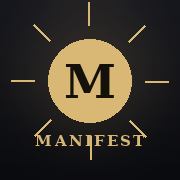
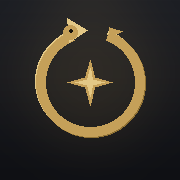
Direction artistique OCCULT + systeme de comptes partages
DA OCCULT (charte de marque):
- Palette anthracite profond + or/creme #C5A059 ; lignes et lueurs dorees.
- Typographies Cinzel (titres) + Poppins (corps) ; textes longs en Poppins 300.
- Nouvelle icone Ouroboros (dragon cyclique) or sur anthracite + etoile centrale,
  ecran de connexion avec le meme logo.

Comptes partages (multi-utilisateurs):
- js/firebase-config.js : config integree optionnelle. Vide = mode local ;
  remplie = comptes actives pour tous les visiteurs du lien.
- Ecran de connexion (auth gate) OCCULT en entree quand une config existe :
  onglets Connexion / Creer un compte, email + mot de passe. La nav est masquee
  tant qu'on n'est pas connecte. Chaque compte est isole (firestore.rules).
- sync.js privilegie window.FIREBASE_CONFIG ; l'admin reste le proprietaire du
  projet Firebase, les autres n'ont acces qu'a leur propre espace.
- Correctif : styles des champs email/password/number.

Claude-Session: https://claude.ai/code/session_01PbU2LRwqQhvQSMHqTjw8ov

Changed region(s): [[0.0556, 0.0, 0.9444, 0.8889]]

diff --git a/css/styles.css b/css/styles.css
@@ -4,38 +4,40 @@
    ===================================================================== */
 
 :root {
-  /* Palette */
-  --bg:            #0b0c10;
-  --bg-elev:       #121319;
-  --surface:       #16181f;
-  --surface-2:     #1c1f28;
-  --line:          rgba(255,255,255,.08);
-  --line-strong:   rgba(255,255,255,.14);
+  /* Palette OCCULT — anthracite profond + or/crème #C5A059 */
+  --bg:            #141518;   /* anthracite profond */
+  --bg-elev:       #1a1c21;
+  --surface:       #1f2128;
+  --surface-2:     #272a33;
+  --line:          rgba(197,160,89,.12);
+  --line-strong:   rgba(197,160,89,.24);
 
-  --text:          #f4f1ea;
-  --text-soft:     #b7b3aa;
-  --text-mut:      #7d7a72;
+  --text:          #f1ece1;   /* crème */
+  --text-soft:     #bdb6a6;
+  --text-mut:      #857f70;
 
-  /* Gold / champagne accent */
-  --gold:          #d9b876;
-  --gold-2:        #c6a15b;
-  --gold-deep:     #a07d3c;
-  --gold-glow:     rgba(217,184,118,.18);
+  /* Or OCCULT */
+  --gold:          #d8b877;   /* highlight */
+  --gold-2:        #c5a059;   /* couleur principale de marque */
+  --gold-deep:     #9a7b3c;
+  --gold-glow:     rgba(197,160,89,.20);
 
-  --good:          #7fb98a;
+  --good:          #8bb98a;
   --warn:          #d98f6b;
 
   --radius:        18px;
   --radius-sm:     12px;
   --radius-lg:     26px;
 
-  --shadow:        0 20px 60px -20px rgba(0,0,0,.7);
+  --shadow:        0 20px 60px -20px rgba(0,0,0,.72);
   --shadow-soft:   0 8px 30px -12px rgba(0,0,0,.55);
 
   --ease:          cubic-bezier(.16,.84,.44,1);
 
-  --serif: "Cormorant Garamond", "Playfair Display", Georgia, serif;
-  --sans:  "Inter", -apple-system, BlinkMacSystemFont, "Segoe UI", Roboto, sans-serif;
+  /* Cinzel (titres) + Poppins (corps) */
+  --title: "Cinzel", "Cormorant Garamond", Georgia, serif;
+  --serif: "Cinzel", "Cormorant Garamond", Georgia, serif;
+  --sans:  "Poppins", -apple-system, BlinkMacSystemFont, "Segoe UI", Roboto, sans-serif;
 
   --maxw: 720px;
 }
@@ -46,8 +48,8 @@ html { -webkit-text-size-adjust: 100%; }
 body {
   font-family: var(--sans);
   background:
-    radial-gradient(1200px 800px at 50% -20%, rgba(217,184,118,.10), transparent 60%),
-    radial-gradient(900px 700px at 100% 10%, rgba(160,125,60,.06), transparent 55%),
+    radial-gradient(1200px 800px at 50% -20%, rgba(197,160,89,.12), transparent 60%),
+    radial-gradient(900px 700px at 100% 10%, rgba(154,123,60,.07), transparent 55%),
     var(--bg);
   background-attachment: fixed;
   color: var(--text);
@@ -135,8 +137,8 @@ h1,h2,h3 { font-family: var(--serif); font-weight: 600; letter-spacing: .2px; li
 }
 .vision-hero .eyebrow { margin-bottom: 12px; }
 .vision-text {
-  font-family: var(--serif); font-size: clamp(22px, 6vw, 30px);
-  line-height: 1.24; color: var(--text); font-weight: 600;
+  font-family: var(--sans); font-size: clamp(20px, 5.4vw, 27px);
+  line-height: 1.32; color: var(--text); font-weight: 300; letter-spacing: .2px;
 }
 .vision-text.empty { color: var(--text-mut); font-style: italic; }
 .vision-edit {
@@ -186,6 +188,27 @@ h1,h2,h3 { font-family: var(--serif); font-weight: 600; letter-spacing: .2px; li
 .ring .fg { stroke: url(#goldgrad); stroke-linecap: round; transition: stroke-dashoffset .6s var(--ease); }
 .ring .pct { font-family: var(--serif); font-size: 22px; }
 
+/* ---------------------------------------------------------------- Auth gate */
+#gate {
+  position: fixed; inset: 0; z-index: 100; overflow-y: auto;
+  display: flex; align-items: center; justify-content: center;
+  padding: calc(env(safe-area-inset-top) + 24px) 20px calc(env(safe-area-inset-bottom) + 24px);
+  background:
+    radial-gradient(900px 600px at 50% -10%, rgba(197,160,89,.16), transparent 60%),
+    var(--bg);
+}
+.gate-card { width: 100%; max-width: 380px; text-align: center; }
+.gate-mark { display:grid; place-items:center; margin-bottom: 14px; filter: drop-shadow(0 6px 20px var(--gold-glow)); }
+.gate-title { font-family: var(--title); font-size: 30px; letter-spacing: 3px; color: var(--text); }
+.gate-sub { color: var(--text-mut); font-size: 13.5px; margin: 6px 0 24px; }
+.gate-tabs { display:flex; gap:6px; background: var(--surface); border:1px solid var(--line); border-radius: 999px; padding:5px; margin-bottom: 18px; }
+.gate-tab { flex:1; border:none; background:transparent; color: var(--text-mut); font-weight:600; font-size:14px; padding:10px; border-radius:999px; cursor:pointer; transition:.15s var(--ease); }
+.gate-tab.on { background: linear-gradient(145deg,var(--gold),var(--gold-deep)); color:#14100a; }
+.gate-card .field { text-align:left; }
+.gate-err { background: rgba(217,143,107,.12); border:1px solid var(--warn); color:#e8b49b; border-radius:12px; padding:10px 12px; font-size:13px; margin-bottom:6px; }
+.gate-note { color: var(--text-mut); font-size:12.5px; margin-top:16px; }
+.gate-load { color: var(--gold-2); font-size:15px; padding: 20px 0; }
+
 /* ---------------------------------------------------------------- Sync dot */
 .sync-dot { width:34px; height:34px; border-radius:50%; display:grid; place-items:center;
   background: var(--surface); border:1px solid var(--line); }
@@ -198,7 +221,7 @@ h1,h2,h3 { font-family: var(--serif); font-weight: 600; letter-spacing: .2px; li
 
 /* ---------------------------------------------------------------- Frequency */
 .identity-line { margin-top:16px; padding-top:14px; border-top:1px solid var(--line);
-  font-family:var(--serif); font-size:17px; color:var(--text-soft); font-style:italic; }
+  font-family:var(--sans); font-weight:300; font-size:16px; color:var(--text-soft); font-style:italic; }
 .freq-scale { display:flex; gap:6px; }
 .freq-cell { flex:1; aspect-ratio:1; border-radius:12px; border:1px solid var(--line);
   background: color-mix(in srgb, var(--fc) 16%, var(--surface)); display:grid; place-items:center;
@@ -233,7 +256,7 @@ h1,h2,h3 { font-family: var(--serif); font-weight: 600; letter-spacing: .2px; li
 /* ---------------------------------------------------------------- Forms */
 label.field { display:block; margin-top: 16px; }
 label.field .lbl { font-size: 12px; letter-spacing:.06em; text-transform:uppercase; color: var(--text-mut); margin-bottom:7px; display:block; }
-textarea, input[type="text"] {
+textarea, input[type="text"], input[type="email"], input[type="password"], input[type="number"] {
   width: 100%; font-family: var(--sans); font-size: 16px; color: var(--text);
   background: var(--bg-elev); border: 1px solid var(--line);
   border-radius: var(--radius-sm); padding: 13px 14px; resize: vertical;
@@ -276,7 +299,7 @@ textarea::placeholder, input::placeholder { color: var(--text-mut); }
 .breath-orb.in  { transform: scale(1.35); box-shadow: 0 0 90px 4px var(--gold-glow); }
 .breath-orb.out { transform: scale(.85); }
 .breath-word { margin-top: 26px; font-family: var(--serif); font-size: 26px; color: var(--text); min-height: 34px; }
-.viz-prompt { text-align:center; font-family: var(--serif); font-size: clamp(20px,5vw,26px); line-height:1.35; padding: 0 6px; min-height: 90px; }
+.viz-prompt { text-align:center; font-family: var(--sans); font-weight:300; font-size: clamp(19px,4.8vw,24px); line-height:1.42; padding: 0 6px; min-height: 90px; }
 .timer-big { font-family: var(--serif); font-size: 40px; color: var(--gold); text-align:center; }
 
 /* ---------------------------------------------------------------- EFT tapping */
@@ -301,7 +324,7 @@ textarea::placeholder, input::placeholder { color: var(--text-mut); }
   border:1px solid var(--line-strong); box-shadow: var(--shadow);
   min-height: 220px; display:grid; place-items:center;
 }
-.affirm-card .q { font-family: var(--serif); font-size: clamp(22px,6vw,30px); line-height:1.3; }
+.affirm-card .q { font-family: var(--sans); font-weight:300; font-size: clamp(21px,5.6vw,28px); line-height:1.38; letter-spacing:.2px; }
 .affirm-list .item {
   display:flex; align-items:center; gap:12px; padding:14px 4px; border-bottom:1px solid var(--line);
 }
@@ -383,7 +406,7 @@ textarea::placeholder, input::placeholder { color: var(--text-mut); }
 .toast.show { opacity:1; }
 
 .divider { height:1px; background:var(--line); margin: 18px 0; }
-.quote { font-family:var(--serif); font-style:italic; color: var(--text-soft); font-size:17px; line-height:1.5; }
+.quote { font-family:var(--sans); font-style:italic; color: var(--text-soft); font-size:16px; line-height:1.55; font-weight:300; }
 .quote .src { display:block; font-style:normal; font-size:12px; color:var(--text-mut); margin-top:8px; letter-spacing:.05em; }
 
 @media (min-width: 640px) {

diff --git a/js/app.js b/js/app.js
@@ -781,6 +781,64 @@ function parseConfig(text){
   return obj;
 }
 
+/* -------------------------------------------------- AUTH GATE (comptes partagés) */
+let gateMode = 'signin';   // 'signin' | 'signup'
+function ouroborosSVG(size=64){
+  return `<svg width="${size}" height="${size}" viewBox="0 0 100 100" aria-hidden="true">
+    <path d="M50 12 A38 38 0 1 1 39 14" fill="none" stroke="var(--gold-2)" stroke-width="6.5" stroke-linecap="round"/>
+    <path d="M39 14 q-11 -2 -16 6 q7 2 9 8 q5 -7 15 -6 q2 -5 -8 -8 z" fill="var(--gold-2)"/>
+    <circle cx="30.5" cy="20.5" r="1.9" fill="#14100a"/>
+    <path d="M0 -13 C2 -4 4 -2 13 0 C4 2 2 4 0 13 C-2 4 -4 2 -13 0 C-4 -2 -2 -4 0 -13 Z" transform="translate(50 54)" fill="var(--gold)"/>
+  </svg>`;
+}
+function gateShell(inner){
+  return `<div class="gate-card fade-in">
+    <div class="gate-mark">${ouroborosSVG(72)}</div>
+    <h1 class="gate-title">Manifestation</h1>
+    <div class="gate-sub">Crée ta réalité. Chaque compte est privé.</div>
+    ${inner}
+  </div>`;
+}
+function paintGate(){
+  const configured = window.Sync && window.Sync.isConfigured();
+  const st = window.Sync ? window.Sync.status : 'off';
+  const show = configured && st !== 'online';
+  let gate = $('#gate'), nav = $('#nav');
+  if (!show) { if (gate) gate.remove(); if (nav) nav.hidden = false; return; }
+  if (nav) nav.hidden = true;
+  if (!gate) { gate = document.createElement('div'); gate.id = 'gate'; document.body.appendChild(gate); }
+
+  if (st === 'connecting') { gate.innerHTML = gateShell(`<div class="gate-load">Connexion…</div>`); return; }
+
+  const isUp = gateMode === 'signup';
+  gate.innerHTML = gateShell(`
+    <div class="gate-tabs">
+      <button class="gate-tab ${!isUp?'on':''}" data-m="signin">Connexion</button>
+      <button class="gate-tab ${isUp?'on':''}" data-m="signup">Créer un compte</button>
+    </div>
+    ${st==='error' ? `<div class="gate-err">${esc(window.Sync.statusMsg||'Erreur')}</div>`:''}
+    <label class="field"><span class="lbl">Email</span><input type="email" id="g-email" placeholder="toi@exemple.com" autocomplete="email"></label>
+    <label class="field"><span class="lbl">Mot de passe</span><input type="password" id="g-pw" placeholder="••••••••" autocomplete="${isUp?'new-password':'current-password'}"></label>
+    <button class="btn btn-gold btn-block" id="g-go" style="margin-top:18px">${isUp?'Créer mon compte ✦':'Entrer'}</button>
+    <div class="gate-note">${isUp?'Ton espace est privé. Personne d\'autre n\'y a accès.':'Ravi de te revoir.'}</div>
+  `);
+  bindGate();
+}
+function bindGate(){
+  $$('#gate .gate-tab').forEach(t => t.addEventListener('click', () => { gateMode = t.dataset.m; paintGate(); }));
+  const go = $('#g-go'); if (!go) return;
+  const submit = async () => {
+    const email = $('#g-email').value.trim(), pw = $('#g-pw').value;
+    if (!email || !pw) { toast('Email + mot de passe requis'); return; }
+    if (gateMode==='signup' && pw.length < 6) { toast('Mot de passe : 6 caractères min.'); return; }
+    go.disabled = true; go.textContent = '…';
+    try { await window.Sync.signIn(email, pw, gateMode==='signup'); }
+    catch(e){ go.disabled=false; go.textContent = gateMode==='signup'?'Créer mon compte ✦':'Entrer'; toast(traduireErreur(e)); }
+  };
+  go.addEventListener('click', submit);
+  $('#g-pw').addEventListener('keydown', e => { if (e.key==='Enter') submit(); });
+}
+
 /* ===================================================================== */
 /* ROUTER                                                                 */
 /* ===================================================================== */
@@ -809,9 +867,12 @@ render();
 
 /* ---------------------------------------------------------- SYNC bootstrap */
 if (window.Sync) {
+  let wasOnline = false;
   window.Sync.onStatus((st) => {
-    paintSync();
-    if (['online','signed-out','error'].includes(st) && (location.hash.replace(/^#/,'')||'/')==='/progress') render();
+    paintSync(); paintGate();
+    if (st === 'online' && !wasOnline) { wasOnline = true; render(); }        // connexion réussie
+    else if (st !== 'online') wasOnline = false;
+    if (['signed-out','error'].includes(st) && (location.hash.replace(/^#/,'')||'/')==='/progress') render();
   });
   window.Sync.onRemote((remote, ts) => {
     // adopte l'état distant s'il est plus récent que le local
@@ -821,6 +882,7 @@ if (window.Sync) {
     render(); toast('Synchronisé ✦');
   });
   if (window.Sync.isConfigured()) window.Sync.init();
+  paintGate();
 }
 
 // onboarding: if no vision yet, gently prompt

diff --git a/js/firebase-config.js b/js/firebase-config.js
@@ -1,0 +1,24 @@
+/* =====================================================================
+   CONFIG FIREBASE — active les COMPTES PARTAGÉS pour toute l'app.
+   ---------------------------------------------------------------------
+   Tant que ce fichier est vide, l'app tourne en mode LOCAL (sans compte).
+   Dès que tu colles ta config ici, l'app affiche un écran de connexion :
+   chaque personne (toi, un ami) crée SON compte, avec ses propres données,
+   totalement isolées (voir firestore.rules). Toi seul es admin (console
+   Firebase). Cette config n'est PAS secrète : elle est faite pour être
+   publique dans une app web — la sécurité vient des règles Firestore.
+
+   COMMENT LA REMPLIR :
+   1. console.firebase.google.com -> ton projet -> Paramètres du projet
+   2. Section "Vos applications" -> app Web -> objet firebaseConfig
+   3. Recopie les valeurs ci-dessous, puis dé-commente le bloc.
+   ===================================================================== */
+
+// window.FIREBASE_CONFIG = {
+//   apiKey: "…",
+//   authDomain: "…",
+//   projectId: "…",
+//   storageBucket: "…",
+//   messagingSenderId: "…",
+//   appId: "…"
+// };

diff --git a/js/sync.js b/js/sync.js
@@ -20,8 +20,12 @@ let pushTimer = null;
 let lastPushed = null;
 
 function getConfig() {
+  // 1) config intégrée à l'app (comptes partagés pour tous les visiteurs)
+  if (window.FIREBASE_CONFIG && window.FIREBASE_CONFIG.apiKey) return window.FIREBASE_CONFIG;
+  // 2) sinon, config collée localement par l'utilisateur
   try { const r = localStorage.getItem(CFG_KEY); return r ? JSON.parse(r) : null; } catch { return null; }
 }
+function isEmbedded() { return !!(window.FIREBASE_CONFIG && window.FIREBASE_CONFIG.apiKey); }
 function setConfig(obj) {
   if (!obj || !obj.apiKey || !obj.projectId) throw new Error('Config invalide');
   localStorage.setItem(CFG_KEY, JSON.stringify(obj));
@@ -116,7 +120,7 @@ async function signOut() {
 }
 
 window.Sync = {
-  isConfigured, getConfig, setConfig, clearConfig,
+  isConfigured, getConfig, setConfig, clearConfig, isEmbedded,
   init, push, signIn, signOut,
   onRemote: cb => remoteCb = cb,
   onStatus: cb => { statusCbs.push(cb); cb(status, statusMsg, user); },

diff --git a/index.html b/index.html
@@ -19,7 +19,7 @@
   <!-- Fonts (offline fallback = system serif/sans) -->
   <link rel="preconnect" href="https://fonts.googleapis.com" />
   <link rel="preconnect" href="https://fonts.gstatic.com" crossorigin />
-  <link href="https://fonts.googleapis.com/css2?family=Cormorant+Garamond:ital,wght@0,500;0,600;0,700;1,500;1,600&family=Inter:wght@400;500;600;700&display=swap" rel="stylesheet" />
+  <link href="https://fonts.googleapis.com/css2?family=Cinzel:wght@500;600;700&family=Poppins:ital,wght@0,300;0,400;0,500;0,600;0,700;1,300;1,400&display=swap" rel="stylesheet" />
 
   <link rel="stylesheet" href="css/styles.css" />
 </head>
@@ -53,6 +53,7 @@
   <div class="toast" id="toast"></div>
 
   <script src="js/content.js"></script>
+  <script src="js/firebase-config.js"></script>
   <script type="module" src="js/sync.js"></script>
   <script type="module" src="js/app.js"></script>
   <script>

diff --git a/sw.js b/sw.js
@@ -1,10 +1,11 @@
 /* Service worker — offline-first cache */
-const CACHE = 'manifest-v2';
+const CACHE = 'manifest-v3';
 const ASSETS = [
   './',
   './index.html',
   './css/styles.css',
   './js/content.js',
+  './js/firebase-config.js',
   './js/sync.js',
   './js/app.js',
   './manifest.webmanifest',
